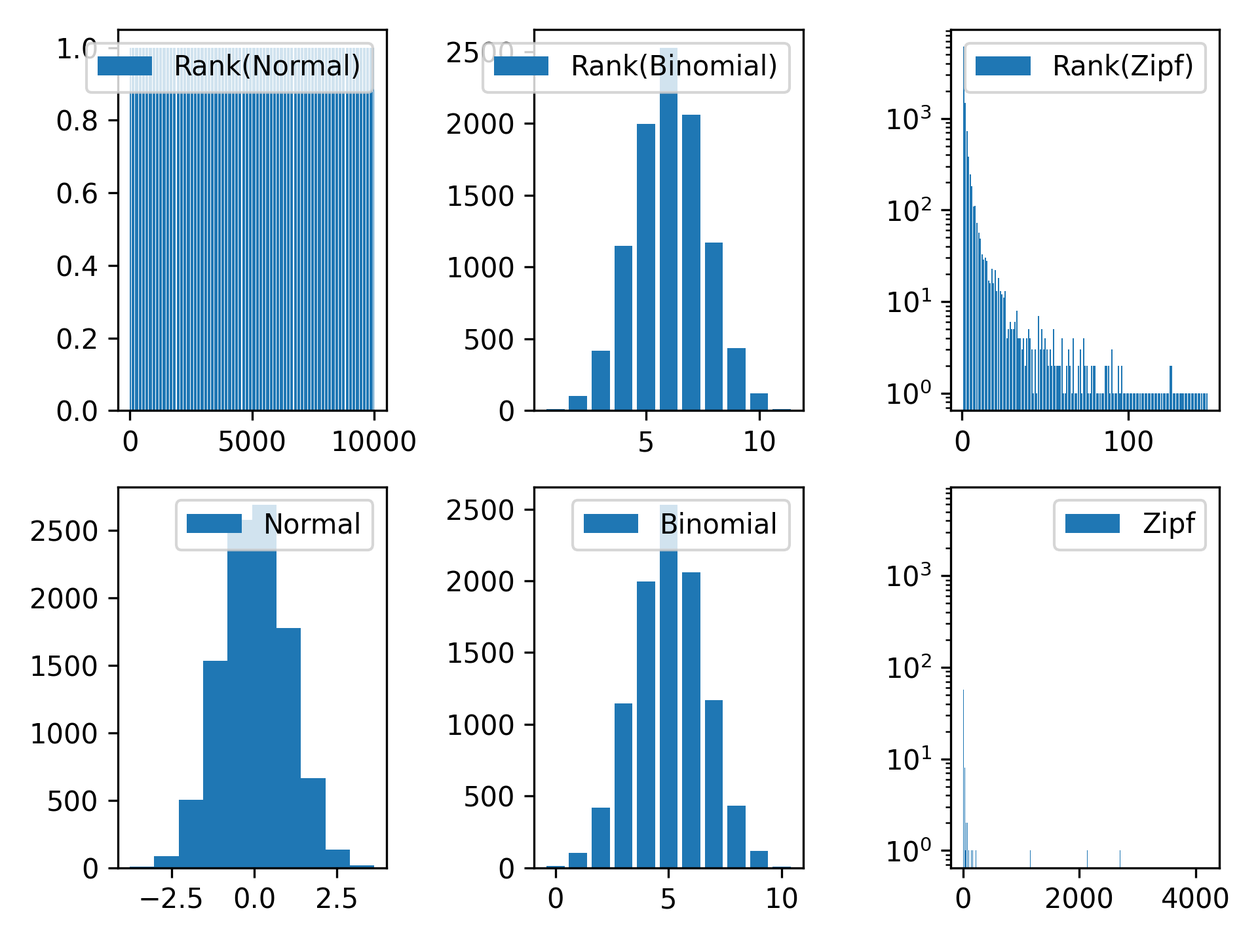
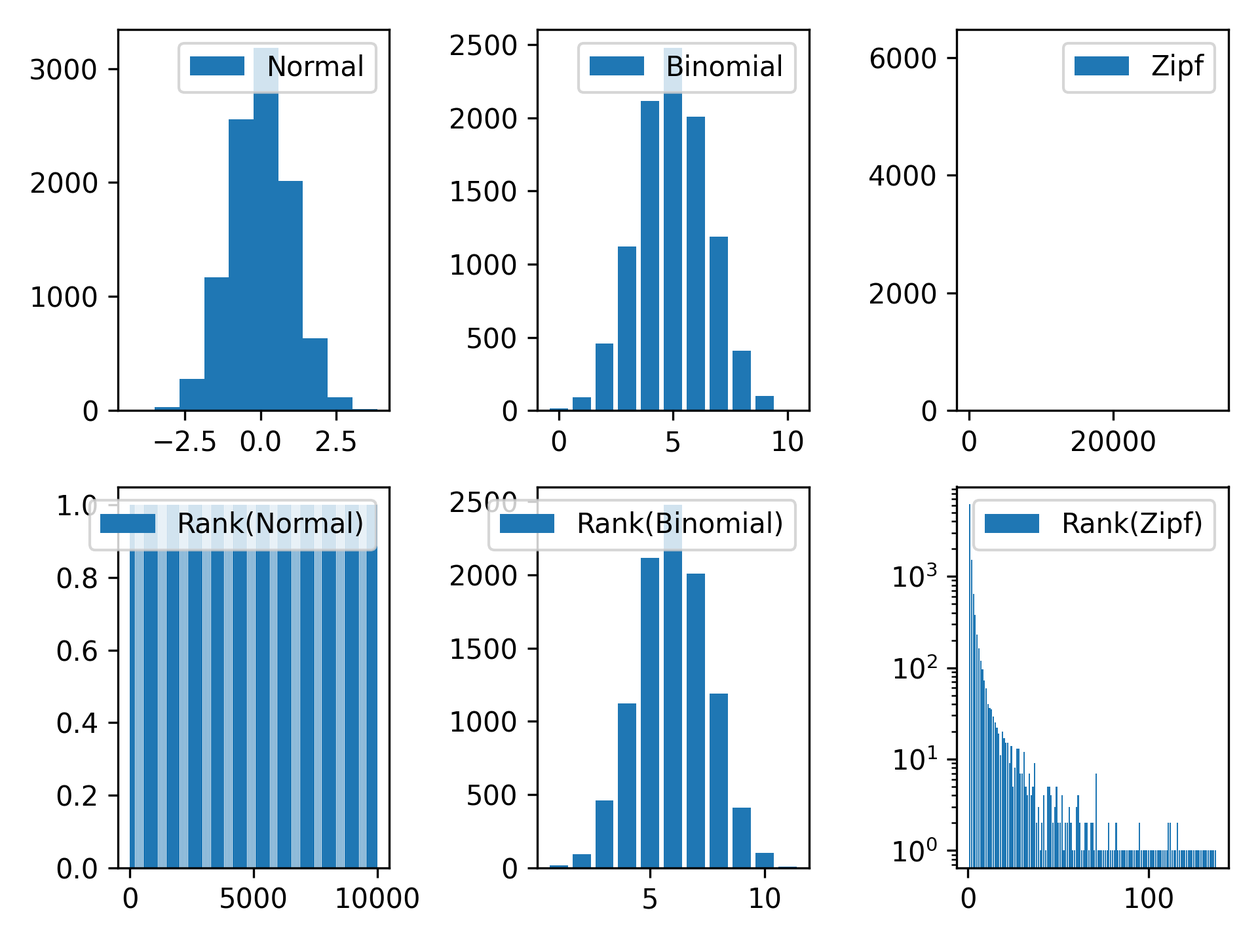
Wilcoxon's heuristic

diff --git a/_posts/2023-08-07-wilcoxons-heuristic.md b/_posts/2023-08-07-wilcoxons-heuristic.md
@@ -1,0 +1,355 @@
+---
+title: Wilcoxon's Heuristic
+date: 2023-08-06 00:52:00 -0800
+categories: [mathematics,statistics,rank-based-statistics]
+tags: [math,mathematics,statistics,rank-based-statistics,ranks,functions,transformations]
+math: true
+mermaid: true
+---
+
+This post was prompted by a quote which I have put below the following video I got it from.
+
+{% include embed/youtube.html id='qee6b7vl2O0' %}
+
+> **Quotation** (Dustin Fife)
+>
+> Every time I can think of that you would have a convergence issue there is no rank-based equivalent for that. `[...]` as far as I know there are no rank-based nonparametric tests for mixed models. The original rank-based procedures are modelled after t-tests, ANOVAs, and regressions. `[...]` I don't think there's ever a situation where you're going to have a convergence issue because its a complex model where there's actually going to be a rank-based equivalent for that model.
+
+I recently read [False Equivalence: The Problem with Unreasonable Comparisons](https://effectiviology.com/false-equivalence/) that left me with a sense that equivalence (according to the author, Itamar Shatz) is a subjective opinion about what can and cannot be compared. Maybe such an approach to thinking about equivalence is valuable, but frankly I prefer the tools provided by logic and mathematics. Ideas like [logical equivalence](https://en.wikipedia.org/wiki/Logical_equivalence), [equivalence relations](https://en.wikipedia.org/wiki/Equivalence_relation), [isomorphism](https://en.wikipedia.org/wiki/Isomorphism), and [adjunction](https://en.wikipedia.org/wiki/Adjoint_functors) allows us to consider different notions of "sameness" between things.
+
+I cannot carefully consider this point about equivalence without clarification on what Dustin meant by "equivalent". It is true that at least some of the popularizers of rank-based non-parametric tests explicitly had the intention of using them as a heuristic in lieu of parametric tests such of t-tests or ANOVA.
+
+The idea that rank-based statistics are merely proxies of certain parametric statistics is inaccurate. But before we unpack that, let us consider why many people, possibly Dustin included think this way. After all, there is an inexhaustible supply of  textbooks, tutorials, and internet posts express this point of view.
+
+According to some sources, you can simply consult a flow chart to determine which statistical procedure can be used.
+
+This itself is a problematic practice as such charts rarely cover the myriad of considerations required in a real analysis. Furthermore, in such charts a list of so-called "parametric assumptions" are given. Exactly what constitutes this list of assumptions can vary, but four commonly-given assumptions are as follows:
+
+- normality of error
+- homoskedasticity
+- statistical independence of observations
+- no outliers.
+
+Ironically, to me at least, is that none of these four assumptions are actually required to be doing a parametric statistical procedure. 
+
+You can have non-normal errors, which is the case when you use some like a [generalized linear model](https://en.wikipedia.org/wiki/Generalized_linear_model) with a log link function. 
+
+You can model heteroskedasticity, often by making the variance or a related parameter a function of the predictors. Here is a simple example where a sequence of random variables depends continuously on a (non-statistical) parameter $t$:
+
+$$X_t \sim \mathcal{N}\left(0, \sigma \left( \sin t \right)^2 \right)$$
+
+And you can model statistical dependence among observations. Perhaps the simplest examples come from [mixed effects models](https://en.wikipedia.org/wiki/Mixed_model) which can be included in most models with parameters including in the form of [generalized linear mixed models](https://en.wikipedia.org/wiki/Generalized_linear_mixed_model) and [nonlinear mixed-effects models](https://en.wikipedia.org/wiki/Nonlinear_mixed-effects_model). The basic trick to this approach is to make a substitution for one of your parameters $\theta := \theta_{\text{fixed}} + \sum_{r=1}^k \mathbb{I}_r \theta_r$. While mixed effects are discrete, continuous variation in non-independence among observations can be acheived with certain stochastic processes such as [Gaussian processes](https://en.wikipedia.org/wiki/Gaussian_process) and [Dirichlet processes](https://en.wikipedia.org/wiki/Dirichlet_process). In the case of Gaussian processes this can be acheived by choosing a kernel function for the covariance matrix in such way that events which have greater proximity in time (or space or some other parameter) are more correlated.
+
+The term ["outlier"](https://en.wikipedia.org/wiki/Outlier) itself seems a little dubious without a definition of what an outlier is, for which one can find many operational definitions. Without clarifying what precisely constitutes an outlier it seems dubious to take the absence of outliers as an assumption required to do a regression. In many cases I suspect outliers can be handled as a special case of one of the previous issues.
+
+So none of these supposed parametric assumptions are actually required for parametric statistics. Rather, they are suited to only a limited selection of premeditated procedures.
+
+Okay, so these recipes for how to decide what statistical procedure to use are very common, but where do they come from? The popular statistics book [*Bernoulli's Fallacy: Statistical Illogic and the Crisis of Modern Science*](https://www.amazon.ca/Bernoullis-Fallacy-Statistical-Illogic-Science/dp/0231199945) provides a scathing critique of frequentism, but in particular the author Aubrey Clayton describes that many of these procedures came from (or were inspired from) the works of [Karl Pearson](https://en.wikipedia.org/wiki/Karl_Pearson) and [Ronald Fisher](https://en.wikipedia.org/wiki/Ronald_Fisher). However, one of the sources that sticks out in my mind for rank-based nonparametric statistics is this paper by Frank Wilcoxon in 1945 titled, "Individual Comparisons by Ranking Methods".
+
+In it he says:
+
+> **Quotation** ([Frank Wilcoxon 1945](https://www.jstor.org/stable/3001968?origin=JSTOR-pdf))]
+>
+> The comparison of two treatments generally falls into one of the following two categories: (a) we may have a number of replications for each of the two treatments, which are unpaired, or (b) we may have a number of paired comparisons leading to a series of differences, some of which may be positive and some negative. `[...]`
+> 
+> The object of the present paper is to indicate the possiblity of using ranking methods, that is, methods in which scores 1, 2, 3, ... $n$ are substituted for the actual numerical data, in order to obtain a rapid approximate idea of the significance of the differences in experiments of this kind.
+
+So, to me, it is unclear whether this is the first time that anybody attempted to use rank-based statistics in this way. But it is clear that Wilcoxon is suggesting a heuristic. One in which many generations of statistician and scientists would follow suite. The basic notion is that there may be positive statistical dependence between the results of parametric null hypothesis test and the results of a certain rank-based nonparametric null hypothesis test. When one test rejects a null hypothesis (hopefully) the other test rejects a closely-related null hypothesis. I'll return to the topic what the limitations of this type of heuristic are, but first I want to point out why it was a brilliant idea for its time.
+
+While machine computers did exist at that time, most calculations were still performed with pencil, paper, and slide rule. And precalculated tables were prepared for ease of use in doing statistical calculations. What is particularly innovative about using this heuristic of using ranks instead of the original data is that it alleviated the need to have many different tables of values for the various distributions that might be utilized. It accomplishes this by taking advantage of the mathematical fact that for many rank transforms on collections of continuous random variables their derived distribution by change of variables is almost surely uniform. So instead of having separate tables for normal distributions, $t$-distributions, $\chi^2$ distributions, etc, you can instead of a single table of values which assumes this underlying uniformity in distribution of ranks.
+
+This is not to say that everyone involved in developed rank-based statistics and tests emphasized using rank-based non-parametric statistics as an approximate substitute for common non-rank-based procedures. Reading through [*On a Test of Whether One of Two Random Variables is Stochastically Larger than the Other*](https://projecteuclid.org/journals/annals-of-mathematical-statistics/volume-18/issue-1/On-a-Test-of-Whether-one-of-Two-Random-Variables/10.1214/aoms/1177730491.full) by Mann and Whitney (1947), they spoke of testing for a stochastic dominance relation without any mention of testing differences in group means. They claimed that the U statistic they discuss, under some assumptions such as independence of replicates, will converge to a normally-distributed random variable. For finite samples, the only kind we really deal with, the result is an approximation that depends on the sample size (and the rate of convergence).
+
+How closely do t-tests and ANOVA resemble some of these rank-based procedures? Let's consider some examples for compare and contrast, beginning with the Mann-Whitney $U$ statistic and unpaired t-statistic. A statistical test requires one or more statistics **and** a decision rule (i.e. a test procedure). Here I will stick to studying the statistics rather than the tests, but I recommend [`@Glen_b`'s post](https://stats.stackexchange.com/a/76080/69508) comparing the acceptance region of an ANOVA vs Kruskal-Wallis.
+	
+
+Let us return the notion that ranking collections of continuous random variables gives uniformly-distributed random variables. We can understand this with an example. For [IID](https://en.wikipedia.org/wiki/Independent_and_identically_distributed_random_variables) samples of size $m=10^4$ we can sample from each of these random variables
+
+$$X_i \sim \mathcal{N}(0,1)$$
+
+$$Y_i \sim \text{Binomial}\left(10, \frac{1}{2} \right)$$
+
+$$Z_i \sim \text{Zipf}(2)$$
+
+and plot the corresponding rank distributions.
+
+![](/assets/images/dist_noninvariant_to_ranking.png)
+
+Out of the normal distribution, binomial distribution, and Zipf distribution, only the normal distribution is continous. We can see from the previous figure that it is uniformly-distribution. For the binomial distribution the values were essentially translated one unit to the right since the ranks start at unity while the binomial distribution starts at zero. The proximity of the bins were unchanged due to the fact that they were already adjacent in the sample, but proximity of discrete bins can change as we can see with the Zipf distribution. The choice of Zipf distribution has a rather unstable tail, leading to us seeing basically nothing on the bar plot of the original sample. It is simply too spread out to see well. But when we rank these values it forces bins that were many orders of magnitude apart on the original scale to be brought adjacent to each other.
+
+Also note that rank transforms on such discrete random variables as those with a binomial distribution or Zipf distribution *will* have distributions that depend on the parameters of the input distributions. The change of variables in such cases is
+
+$$Pr(Y=y) = \sum_{y = f(x)} Pr(X=x)$$
+
+for a measurable function $f$.
+
+Here is the source code to generate the above figure.
+
+```python
+import matplotlib.pyplot as plt
+import numpy as np
+from scipy.stats import rankdata, zipf
+
+# Config
+np.random.seed(2018)
+
+# Generate data
+M = 10000
+x = np.random.normal(size=M)
+y = np.random.binomial(n=10, p=0.5, size=M)
+z = zipf.rvs(2, size=M)
+
+# Create plots
+fig, axes = plt.subplots(2,3)
+
+axes[0][0].hist(x,  label='Normal')
+axes[0][0].legend()
+axes[0][1].bar(*np.unique(y, return_counts=True), label='Binomial')
+axes[0][1].legend()
+axes[0][2].bar(*np.unique(z, return_counts=True), label='Zipf')
+axes[0][2].legend()
+
+axes[1][0].bar(*np.unique(rankdata(x, method='dense'), return_counts=True),  label='Rank(Normal)')
+axes[1][0].legend()
+axes[1][1].bar(*np.unique(rankdata(y, method='dense'), return_counts=True),  label='Rank(Binomial)')
+axes[1][1].legend()
+axes[1][2].bar(*np.unique(rankdata(z, method='dense'), return_counts=True),  label='Rank(Zipf)')
+axes[1][2].set_yscale('log')
+axes[1][2].legend()
+
+plt.tight_layout()
+plt.savefig('dist_noninvariant_to_ranking.png', dpi=300, transparent=True)
+plt.close()
+```
+
+
+One way to study statistics is to study how they compose with other functions. While it can feel a little backward at first, an effective way to go about this is to understand what a function **doesn't** quantify. For functions $f: \Omega \mapsto \Omega^{\prime}$ and $g: \Omega \mapsto \Omega$ we can define $g$ to be an *invariant* of $f$ if the equality $(f \circ g)(\omega) = f(\omega)$ for all $\omega \in \Omega$.
+
+> Often $g$ is taken to be a [group action](https://en.wikipedia.org/wiki/Group_action) on the domain $\Omega$, but I think this is more specific than needed here. While it has a bent toward applications of mathematical symmetry in deep learning, which may be outside some reader's interests, I like how [Bronstein *et al* 2021](https://arxiv.org/abs/2104.13478) introduce the history and mathematical notions around this subject.
+{: .prompt-info}
+
+Because a rank transform preserves little more than the order of the input, we can understand that $(\operatorname{rank} \circ g)(X) = \operatorname{rank}(X)$ for any monotonic function $g$. If it helps, think about this counterfactually with an example. It happens that positive scaling and global translations are monotonic functions. Taking our $g(X):=X+c$, we know that $\operatorname{rank}(X+c) = \operatorname{rank}(X)$ for any $c \in \mathbb{R}$. We can ask, if the data had all been different by $c$, would the ranks be different? The answer is no! There are some similar concepts to invariance that I will briefly mention but not explore here as they are less obviously applicable. Instead of considering the equality $(f \circ g)(\omega) = f(\omega)$ we might instead find $(f \circ g)(\omega) = (g \circ f)(\omega)$, which is called \textit{equivariance}. This is a kind of [commutativity](https://en.wikipedia.org/wiki/Commutative_property) of function composition between $f$ and $g$. But we don't have to stop at equality relations. A notion of subinvariance defined by satisfying $(f \circ g)(\omega) \leq f(\omega)$. I'll leave it to the reader to explore other possibilities, and return to the topic of comparing rank-based non-parameter statistics with common non-rank-based parametric statistics.
+
+> As an exercise, pick a function you are familiar with and look for an invariant.
+{: .prompt-tip}
+
+Not everything about a function can be neatly studied in terms of invariance, equivariance, or other similar concepts. It can help to do numerical calculations and plot the results to study how a function works. Let's go beyond ranks themselves to comparing the unpaired Student's t score against the Mann-Whitney U score (but again, not the tests). While the ranks of a collection of variables alone were invariant to translations, the Mann-Whitney U score involves a partition of the data in which the score may or may not change when a translation of the data is considered.
+
+The [U statistic](https://en.wikipedia.org/wiki/Mann%E2%80%93Whitney_U_test#U_statistic) can be written
+
+$$U(X,Y) \triangleq \min \left( R_1 - \frac{m_1(m_1 + 1)}{2}, R_2 - \frac{m_2(m_2 + 1)}{2} \right)$$
+
+where $R_1$ and $R_2$ are the sum of the ranks in group 1 and 2 respectively, and the $m_1$ and $m_2$ are the respective sample sizes. Note that the data is ranked collectively, and then split into groups. We can consider the effects of translating the first group by $\alpha \in \mathbb{R}$
+
+$$U(X + \alpha,Y)$$
+
+which is *not* an invariant. Rather, for *some* $\alpha$ is holds that $U(X + \alpha,Y) \neq  U(X,Y)$. Let's consider a concrete example. Suppose we have two samples of sizes $m_1 = m_2 = 10^3$ from a standard normal distribution (i.e. IID). We can see from the figure below that produces an s-shaped response.
+
+![](/assets/images/U_vs_alpha.png)
+
+> The above plot gives an appearance of smoothness, but this is due to the large sample size and choice of underlying density. The function is not smooth.
+{: .prompt-danger}
+
+One thing we cannot see from the above plot is what happens at granular level. The response is actually a sequence of accumulating steps as $\alpha$ increases, and these changes only occur whenever a difference in the content of the ranks between the groups change. We can also see that for extreme values of $\alpha$ that the $U$ score is flat. This is because in the original data we are 'sliding' (i.e. translating) one group of data past the other. For sufficiently negative $\alpha$ the entirety of the values in group one are below the elements of group 2, so no further translations will affect the relative ordering. Likewise, sufficiently large $\alpha$ implies that all of the elements of group 1 are greater than the elements of group 2, and thus any further translation does not result in any changes in the relative ordering (and thus ranks).
+
+The unpaired t score on a sample of two equally-sized (AKA "balanced") groups is given by
+
+$$t(X_1, X_2) \triangleq \frac {\bar X_1 - \bar X_2}{\sqrt{\frac{s_{X_1}^2 + s_{X_2}^2}{2}} \sqrt{\frac{2}{m}}}$$
+
+where $\bar X_1$ and $\bar X_2$ are the respective group means and $s_{X_1}^2$ and $s_{X_2}^2$ are the respective Bessel-corrected sample variances. We can consider the result of translating group 1 by $\alpha$:
+
+$$\begin{align*}
+t(X_1 + \alpha, X_2) & = \frac {\frac{1}{m} \sum_{i=1}^m (X_{i,1} + \alpha) - \bar X_2}{\sqrt{\frac{\frac{1}{m-1}\sum_{i=1}^m \left( X_{i,1} + \alpha - \frac{1}{m} \sum_{i=1} (X_{i,1} + \alpha)\right)^2 + s_{X_2}^2}{2}} \sqrt{\frac{2}{m}}}\\
+& = \frac {\frac{1}{m}\sum_{i=1}^m X_{i,1} + \frac{1}{m}\sum_{i=1}^m \alpha - \bar X_2}{\sqrt{\frac{\frac{1}{m-1}\sum_{i=1}^m \left( X_{i,1} + \alpha - \left( \frac{1}{m}\sum_{i=1}^m X_{i,1} + \frac{1}{m}\sum_{i=1}^m \alpha \right)\right)^2 + s_{X_2}^2}{2}} \sqrt{\frac{2}{m}}}\\
+& = \frac {\bar X_1 + \alpha - \bar X_2}{\sqrt{\frac{\frac{1}{m-1}\sum_{i=1}^m \left( X_{i,1} + \alpha - \left( \bar X_1 + \alpha \right)\right)^2 + s_{X_2}^2}{2}} \sqrt{\frac{2}{m}}}\\
+& = \frac {\bar X_1 - \bar X_2 + \alpha}{\sqrt{\frac{\frac{1}{m-1}\sum_{i=1}^m \left( X_{i,1} + \alpha - \bar X_1 - \alpha \right)^2 + s_{X_2}^2}{2}} \sqrt{\frac{2}{m}}}\\
+& = \frac {\bar X_1 - \bar X_2 + \alpha}{\sqrt{\frac{\frac{1}{m-1}\sum_{i=1}^m \left( X_{i,1} - \bar X_1 \right)^2 + s_{X_2}^2}{2}} \sqrt{\frac{2}{m}}}\\
+& = \frac {\bar X_1 - \bar X_2}{\sqrt{\frac{\frac{1}{m-1}\sum_{i=1}^m \left( X_{i,1} - \bar X_1 \right)^2 + s_{X_2}^2}{2}} \sqrt{\frac{2}{m}}} + \frac {\alpha}{\sqrt{\frac{\frac{1}{m-1}\sum_{i=1}^m \left( X_{i,1} - \bar X_1 \right)^2 + s_{X_2}^2}{2}} \sqrt{\frac{2}{m}}}\\
+\end{align*}$$
+
+Taking the assignments 
+
+$$m := \frac {1}{\sqrt{\frac{\frac{1}{m-1}\sum_{i=1}^m \left( X_{i,1} - \bar X_1 \right)^2 + s_{X_2}^2}{2}} \sqrt{\frac{2}{m}}}$$
+
+and 
+
+$$b := \frac {\bar X_1 - \bar X_2}{\sqrt{\frac{\frac{1}{m-1}\sum_{i=1}^m \left( X_{i,1} - \bar X_1 \right)^2 + s_{X_2}^2}{2}} \sqrt{\frac{2}{m}}}$$
+
+we can see that
+
+$$t(X_1 + \alpha, X_2) = m \alpha + b$$
+
+which makes the translated t-statistic a simple linear function of $\alpha$. Taking the same data set we used to examine the $U$ statistic, we can plot the translated t-statistic as a function of $\alpha$.
+
+![](/assets/images/t_vs_alpha.png)
+
+And since we have translated $U$ scores and $t$ scores on the same data we can plot them against each other, parametrized by $\alpha$.
+
+![](/assets/images/U_vs_t.png)
+
+It should be clear from these plots that the $U$ statistic does not respond the same way to translations as does the unpaired t-statistic. Plotting these statistics against each other on the same data paired by values of $\alpha$ can shows that there is an s-shaped relationship between them. But note that data sets often different in ways other than translation, and that independent samples will show substantially more variation. 
+
+Here is some code for generating the previous three images, if you want to tinker.
+
+```python
+import matplotlib.pyplot as plt
+import numpy as np
+from scipy.stats import ttest_ind as ttest, mannwhitneyu
+
+# Skip p-values
+tscore = lambda a,b: ttest(a, b)[0]
+uscore = lambda a,b: mannwhitneyu(a, b)[0]
+
+# Grid sweep global translation
+np.random.seed(2018)
+m = 1000
+x = np.random.normal(size=m)
+y = np.random.normal(size=m)
+A = np.linspace(-10, 10, num=1000)
+
+# Compute translated scores
+tscores = []
+uscores = []
+for alpha in A:
+    dx = x + alpha
+    tscores.append(tscore(dx, y))
+    uscores.append(uscore(dx, y))
+
+# Pairwise plots
+plt.scatter(tscores, uscores, s=1)
+plt.xlabel('t score')
+plt.ylabel('U score')
+plt.savefig('U_vs_t.png', dpi=300, transparent=True)
+plt.close()
+
+
+plt.step(A, uscores)
+plt.xlabel('$\\alpha$')
+plt.ylabel('U score')
+plt.savefig('U_vs_alpha.png', dpi=300, transparent=True)
+plt.close()
+
+plt.step(A, tscores)
+plt.xlabel('$\\alpha$')
+plt.ylabel('t score')
+plt.savefig('t_vs_alpha.png', dpi=300, transparent=True)
+plt.close()
+```
+
+Consider the following plot in which the samples are independent rather than being translations of each other and have a fixed translation of $\alpha = 4$ in the second group.
+
+![](/assets/images/randomize_u_vs_t.png)
+
+Here is the Python code to generate the previous plot, if you want to tinker.
+
+```python
+import matplotlib.pyplot as plt
+import numpy as np
+from scipy.stats import mannwhitneyu, ttest_ind
+
+U = lambda x,y: mannwhitneyu(x,y)[0]
+T = lambda x,y: ttest_ind(x,y)[0]
+
+# Generate data
+np.random.seed(2018)
+
+us = []
+ts = []
+for i in range(10000):
+    x = np.random.normal(size=1000)
+    y = np.random.normal(size=1000) + 4
+    us.append(U(x,y))
+    ts.append(T(x,y))
+
+# Plot scatter
+plt.scatter(ts, us, s=1)
+plt.xlabel('t-Score')
+plt.ylabel('U-Score')
+plt.savefig('randomize_u_vs_t.png', dpi=300, transparent=True)
+plt.tight_layout()
+plt.close()
+```
+
+Broadly speaking, there does seem to be some statistical dependence between the Mann-Whitney U statistic and the unpaired t-statistic. This is sufficient for Wilcoxon's heuristic to work at all, but the relationship between such scores in general will be quite variable. This is because these two statistics quantify different things about the data. The t-statistc responds linearly to translation indefinitely with respect to translations $\alpha$ because moving one of the groups will always have an effect on the mean differences. Unlike the U statistic which has saturating effects at the extreme values of translation. This is because with the U statistic we are interesting in quantifying a stochastic dominance of one collection of measurements vs another using an order relation. But you cannot get smaller than the smallest, nor bigger than the biggest, when it comes to placement in a finite order. So the effects saturate.
+
+Let us consider one more example, comparing the [1-way/factor analysis of variance (ANOVA)](https://en.wikipedia.org/wiki/One-way_analysis_of_variance) F-score to the [Kruskall-Wallis](https://en.wikipedia.org/wiki/Kruskal%E2%80%93Wallis_one-way_analysis_of_variance) K-score. Ostensibly, the K-score should be statistically dependent with the F-score if Wilcoxon's heuristic is to have any value. Instead of 2 groups, let us consider three groups. And let us translate 2 of the 3 groups by the parameters $\alpha$ and $\beta$ respectively. Let's just skip to the plots this time.
+
+Here is the surface of ANOVA F scores induced by pairwise translations. As expected, the minimum scores is where $\alpha = \beta = 0$. While the curve along $\alpha = \beta$ appears to grow more slowly than along the line $\alpha = -\beta$, the score will increase indefinitely in any direction away from the original. That is because even if two of the means stay similar after translations, the third mean will eventually be very different.
+
+![](/assets/images/anova_translation_surface.png)
+
+Is is the surface of KS scores induced by pairwise translations. This surface seems only vaguely similar to the ANOVA F surface. Something they have in common is that the minimum occurs at $\alpha = \beta = 0$, which is to be expected since the sampled means were similar. But we can see a couple of substantial differences from the ANOVA F surface. The KS score surface is eventually bounded in any direction. This is because of a similar aspect that we encountered with the Mann-Whitney U score: you cannot be bigger than biggest or smaller than smallest. The KS score does not have the sigmoidal aspect going from negative to positive translations along any given translation axis because of the squaring in the KS statistic (not shown). The second unusual feature of this surface are that 'canals' that lead away from the origin. At a glance it might seem very strange/unatural, but it is an expected feature of such a statistic. The origin is very low because all three mean ranks are similar, but away from the original no-fewer than two of the mean ranks will be similar. Along either of the canonical orthogonal directions we see that the canals are at an intermediate level in which two of the means are unchanged but the third one is changed. These canals do not increase in elevation further away than some point from the origin because again that translated group cannot get a bigger score for already being entirely above the other groups. A similar description holds along the $\alpha = \beta$ diagonal axis except that the two groups are close to each after translation, leaving the untranslated group the one comletely dominated or dominating the other two.
+
+![](/assets/images/kruskall_translation_surface.png)
+
+Some rank-based statistics are selective to violations of order in a way that some non-rank-based statistics are not. A statistic like the Mann-Whitney U is sensitive to every violation of order between elements of two groups whereas an unpaired t-score can "average-out" violations of order. This likewise appears consistent with the comparison of a one-way ANOVA F score vs a one-way Kruskal-Wallace ANOVA score. The classic ANOVA F appears as a convex bowl over the translations whereas the KS ANOVA has ``canals" which report to us that certain combinations of translations leave the relative ordering of the groups unchanged.
+
+Here is the Python code for the previous two plots, if you want to tinker.
+
+```python
+'''
+Plots the standard one-way ANOVA
+F score and the Kruskall-Wallis ANOVA
+score surfaces changing with respect to
+translations of the groups of points within
+the data.
+'''
+import matplotlib.pyplot as plt
+from matplotlib import cm
+from matplotlib.ticker import LinearLocator
+import numpy as np
+
+from scipy.stats import kruskal, f_oneway as anova
+
+# Make data
+np.random.seed(2018)
+m = 100
+x, y, z = np.random.normal(size=m*3).reshape(m,3).T
+
+# Kruskall
+alpha = np.linspace(-10, 10, num=200)
+beta = np.linspace(-10, 10, num=200)
+K = np.zeros((alpha.size, beta.size))
+
+for i, ai in enumerate(alpha):
+    for j, aj in enumerate(beta):
+        K[i,j] = kruskal(x + ai, y + aj, z)[0]
+
+alpha, beta = np.meshgrid(alpha, beta)
+
+fig, ax = plt.subplots(subplot_kw={"projection": "3d"})
+ax.plot_surface(alpha, beta, K, vmin=K.min() * 2, cmap=cm.Blues)
+
+ax.set(xlabel='$\\alpha$',
+       ylabel='$\\beta$',
+       zlabel='$K$-Score')
+
+plt.savefig('kruskall_translation_surface.png', dpi=300, transparent=True)
+plt.close()
+
+
+# Anova
+alpha = np.linspace(-10, 10, num=200)
+beta = np.linspace(-10, 10, num=200)
+K = np.zeros((alpha.size, beta.size))
+
+for i, ai in enumerate(alpha):
+    for j, aj in enumerate(beta):
+        K[i,j] = anova(x + ai, y + aj, z)[0]
+
+alpha, beta = np.meshgrid(alpha, beta)
+
+fig, ax = plt.subplots(subplot_kw={"projection": "3d"})
+ax.plot_surface(alpha, beta, K, vmin=K.min() * 2, cmap=cm.Blues)
+
+ax.set(xlabel='$\\alpha$',
+       ylabel='$\\beta$',
+       zlabel='$F$-Score')
+
+plt.savefig('anova_translation_surface.png', dpi=300, transparent=True)
+plt.close()
+```
+
+We can see that some of these statistics are correlated, giving some justification to Wilcoxon's heuristic. But I should emphasize that with these simple statistics we should no longer bother with Wilcoxon's heuristic. Rather, we should consider what these rank-based statistics actually quantify (namely a form of stochastic dominance for the ones covered in this post), and consider using them when they help address our analysis questions. I'm not against approximations when things are difficult to compute, but if what you want is an inference about the differences in means when the residual distribution is substantially non-normal there are better approaches. Same goes for when there is heteroskedasticity or statistical dependence among observations.
+
+That being said, abandoning Wilcoxon's heuristic is not the same thing as abandoning rank-based statistics. In the right context, I still think even the classic rank-based statistics can be useful when understood correctly. But the statistical question should be about order properties in the data, not differences in the means. These classic rank-bassed statistics are not synonymous with null hypothesis testing either, although clearly they are the centerpiece of such classic tests. If you're going to use these rank-based statistics in a null hypothesis testing approach, do it right (which may not be as easy as it sounds).
